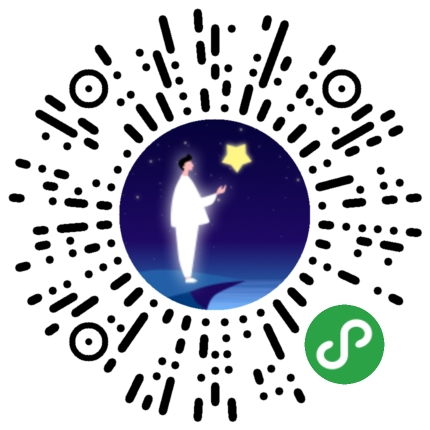
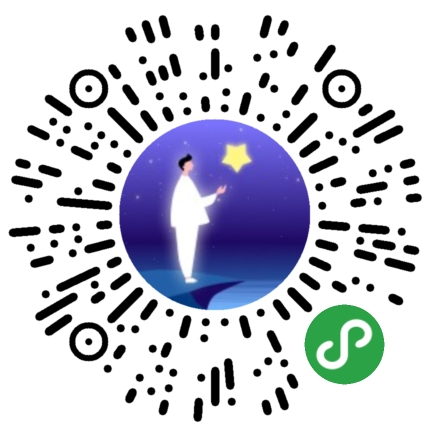
二维码替换一言， 授权，摇签

diff --git a/xz_mp/constellation/pages/lot/shakelot/shake.js b/xz_mp/constellation/pages/lot/shakelot/shake.js
@@ -41,69 +41,67 @@ Page({
       } else if (options.where = 'shake') {
         if (options.hotapp == 1) {
           mta.Event.stat("ico_in_from_shake_qrcode", {})
-        }else{
+        } else {
           mta.Event.stat("ico_in_from_shake", {})
         }
+      } else if (options.where = 'activity') {
+        mta.Event.stat("ico_in_from_activity", {})
       }
-      
+
     }
     console.log(options)
 
     const _self = this
     const _SData = this.data
     if (!_GData.userInfo) {
-      // wx.getSetting({
-      //   success: function (res) {
-      //     if (res.authSetting['scope.userInfo']) {
-      //       _self.setData({
-      //         hasAuthorize: true
-      //       })
-            getUserInfo()
-              .then(res => {
-                $vm.api.getSelectx100({
-                  nickName: res.userInfo.nickName,
-                  headImage: res.userInfo.avatarUrl,
-                  notShowLoading: true,
-                }).then(res => {
-                  if (res.userInfo) {
-                    wx.setStorage({
-                      key: 'userInfo',
-                      data: res.userInfo,
-                    })
-                    _self.setData({
-                      hasAuthorize: true
-                    })
-                    _GData.userInfo = res.userInfo
-                    $vm.api.getSelectx100({
-                      nickName: res.userInfo.nickName,
-                      headImage: res.userInfo.avatarUrl,
-                      notShowLoading: true,
-                    }).then(res => {
+      wx.getUserInfo({
+        success: function (res) {
+          console.log(res)
+          if (res.userInfo) {
+            wx.setStorage({
+              key: 'userInfo',
+              data: res.userInfo,
+            })
 
-                    })
-                  }
+            _GData.userInfo = res.userInfo
+            $vm.api.getSelectx100({
+              constellationId: _GData.selectConstellation.id,
+              nickName: res.userInfo.nickName,
+              headImage: res.userInfo.avatarUrl,
+              notShowLoading: true,
+            }).then(res => {
+
+            })
+          }
+        },
+        fail: function (res) {
+          // 查看是否授权
+          wx.getSetting({
+            success: function (res) {
+              if (!res.authSetting['scope.userInfo']) {
+
+                _self.setData({
+                  hasAuthorize: false
                 })
-              })
-              .catch(err => {
-                console.log(err)
-              })
-      //     } else {
-      //       _self.setData({
-      //         hasAuthorize: false
-      //       })
-      //       wx.showToast({
-      //         title: '请先同意授权',
-      //         icon: 'none',
-      //         mask: true,
-      //       })
-      //     }
-      //   },
-      //   fail: function (res) { },
-      //   complete: function (res) { },
-      // // })
-
-
+                wx.redirectTo({
+                  url: '/pages/checklogin/checklogin?from=shake'
+                })
+                // if (fromwhere == 'share') {
+                //   wx.showToast({
+                //     title: '请先同意授权',
+                //     icon: 'none',
+                //     mask: true,
+                //   })
+                // }
+              }
+            }
+          })
+        }
+      })
     }
+    _self.setData({
+      userInfo: _GData.userInfo
+    })
   },
 
   /**
@@ -269,7 +267,7 @@ Page({
     var positivenum = 0 //正数 摇一摇总数
 
     wx.onAccelerometerChange(function (res) {  //小程序api 加速度计
-    console.log(res)
+      console.log(res)
       if (_self.data.hasReturn || _self.data.isLoading) {
         return
       }

diff --git a/xz_mp/constellation/pages/checklogin/checklogin.js b/xz_mp/constellation/pages/checklogin/checklogin.js
@@ -18,6 +18,20 @@ Page({
    */
   onLoad: function (options) {
     mta.Page.init()
+    const _self = this
+    let fromwhere = options.from
+    if (fromwhere) {
+      _self.setData({
+        pageFrom: fromwhere
+      })
+    }
+    let to = options.to
+    if (to) {
+      _self.setData({
+        toPage: to,
+      })
+    }
+
   },
 
   /**
@@ -69,7 +83,8 @@ Page({
 
   },
   bindGetUserInfo: function (e) {
-
+    const _self = this
+    const _SData = this.data
     if (e.detail.userInfo) {
       wx.setStorage({
         key: 'userInfo',
@@ -84,9 +99,16 @@ Page({
         headImage: e.detail.userInfo.avatarUrl,
         notShowLoading: true,
       }).then(res => {
-        wx.redirectTo({
-          url: '/pages/home/home',
-        })
+        if (_SData.pageFrom == 'shake') {
+          wx.redirectTo({
+            url: '/pages/lot/shakelot/shake?from=detail',
+          })
+        } else {
+          wx.redirectTo({
+            url: '/pages/home/home?from=' + _SData.pageFrom + '&to=' + _SData.toPage,
+          })
+        }
+
       })
     }
 

diff --git a/xz_mp/constellation/pages/home/home.js b/xz_mp/constellation/pages/home/home.js
@@ -35,25 +35,7 @@ Page({
   selectSign: function (e) {
     const _self = this
     const _SData = this.data
-    // if (!_GData.userInfo) {
-    //   wx.showToast({
-    //     title: '没有用户信息',
-    //     icon: 'none',
-    //     mask: true,
-
-    //   })
-    //   return
-    // }
-    // if (!_SData.hasAuthorize) {
-    //   wx.showToast({
-    //     title: '请先同意授权',
-    //     icon: 'none',
-    //     mask: true,
-
-    //   })
-    //   return
-    // }
-
+    
     const selectConstellation = e.detail.target.dataset.item
     mta.Event.stat('ico_home_select', { 'constellation': selectConstellation.name })
     _GData.selectConstellation = selectConstellation
@@ -179,7 +161,7 @@ Page({
                 hasAuthorize: false
               })
               wx.redirectTo({
-                url: '/pages/checklogin/checklogin'
+                url: '/pages/checklogin/checklogin?from=' + fromwhere + '&to=' + to
               })
               // if (fromwhere == 'share') {
               //   wx.showToast({
